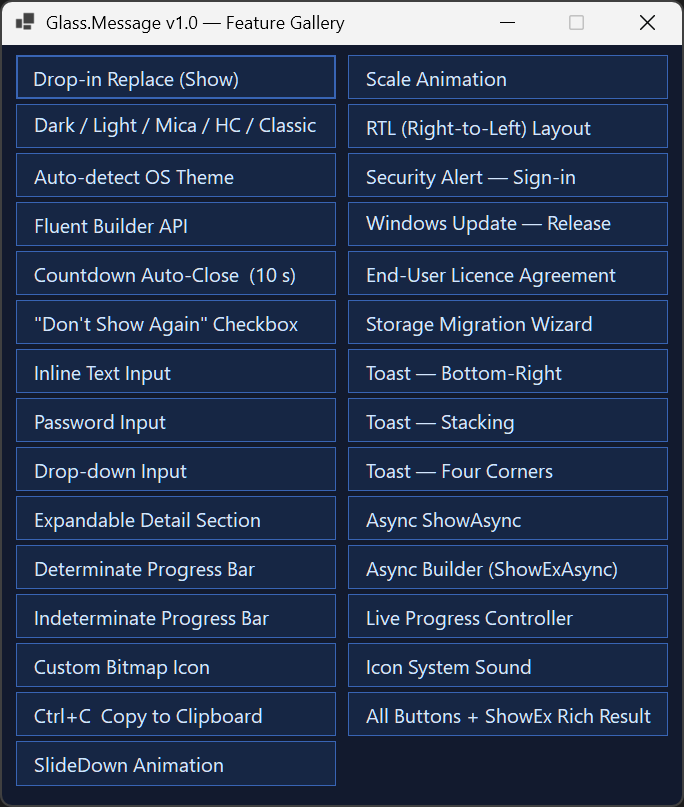
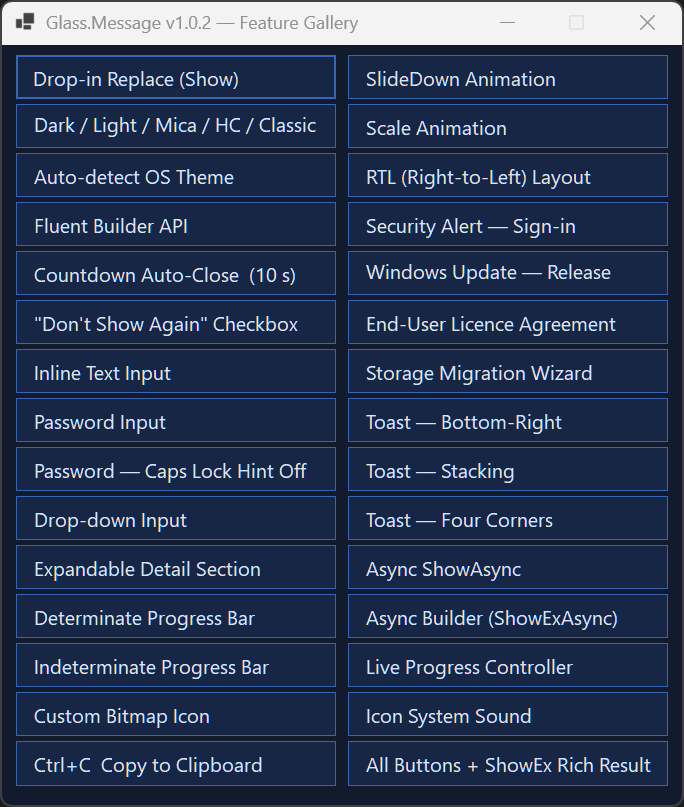
docs: sync README and CHANGELOG with 30-demo gallery and Caps Lock hint feature

diff --git a/README.md b/README.md
@@ -442,9 +442,12 @@ if (r.CheckBoxChecked) { /* persist the preference */ }
 
 <table>
 <tr>
-<td align="center"><img src="Images/Inline%20Text%20Input.png" width="360" alt="Text"/></td>
-<td align="center"><img src="Images/Password%20Input.png" width="360" alt="Password"/></td>
-<td align="center"><img src="Images/Drop-down%20Input.png" width="360" alt="Dropdown"/></td>
+<td align="center"><b>Text</b><br/><img src="Images/Inline%20Text%20Input.png" width="350" alt="Text"/></td>
+<td align="center"><b>Password (Caps Lock hint on)</b><br/><img src="Images/Password%20Input.png" width="350" alt="Password"/></td>
+</tr>
+<tr>
+<td align="center"><b>Password (Caps Lock hint off)</b><br/><img src="Images/Password%20-%20Caps%20Lock%20Hint%20Off.png" width="350" alt="Password without Caps Lock hint"/></td>
+<td align="center"><b>Drop-down</b><br/><img src="Images/Drop-down%20Input.png" width="350" alt="Dropdown"/></td>
 </tr>
 </table>
 
@@ -893,7 +896,7 @@ GlassMessage.PlaySystemSounds = true;
 - **Each `Demo_*` method** is self-contained and demonstrates exactly one capability with realistic copy.
 
 <details>
-<summary><b>Full demo → feature map (29 demos)</b></summary>
+<summary><b>Full demo → feature map (30 demos)</b></summary>
 
 <br/>
 
@@ -907,6 +910,7 @@ GlassMessage.PlaySystemSounds = true;
 | "Don't Show Again" Checkbox | `Demo_CheckBox` | `CheckBox(...)` + `ShowEx()` |
 | Inline Text Input | `Demo_Input` | `InputText(...)` |
 | Password Input | `Demo_Password` | `InputPassword(...)` |
+| Password — Caps Lock Hint Off | `Demo_PasswordNoCapsLock` | `InputPassword(..., showCapsLockHint: false)` |
 | Drop-down Input | `Demo_Dropdown` | `InputDropdown(...)` |
 | Expandable Detail Section | `Demo_Detail` | `Detail(...)` |
 | Determinate Progress Bar | `Demo_Progress` | `Progress(value, max)` |

diff --git a/CHANGELOG.md b/CHANGELOG.md
@@ -13,6 +13,14 @@ and this project adheres to [Semantic Versioning](https://semver.org/spec/v2.0.0
 
 ## [1.0.2] - 2026-06-12
 
+### Added
+
+- **`showCapsLockHint` parameter on `InputPassword()`** — opt out of the Caps Lock
+  badge per dialog with `.InputPassword("placeholder", showCapsLockHint: false)`.
+  The hint stays on by default; suppress it for PIN entry, kiosk flows, or anywhere
+  uppercase input is intentional. Showcased by the new **Password — Caps Lock Hint
+  Off** demo (`Demo_PasswordNoCapsLock`).
+
 ### Fixed
 
 #### Thread safety & concurrency
